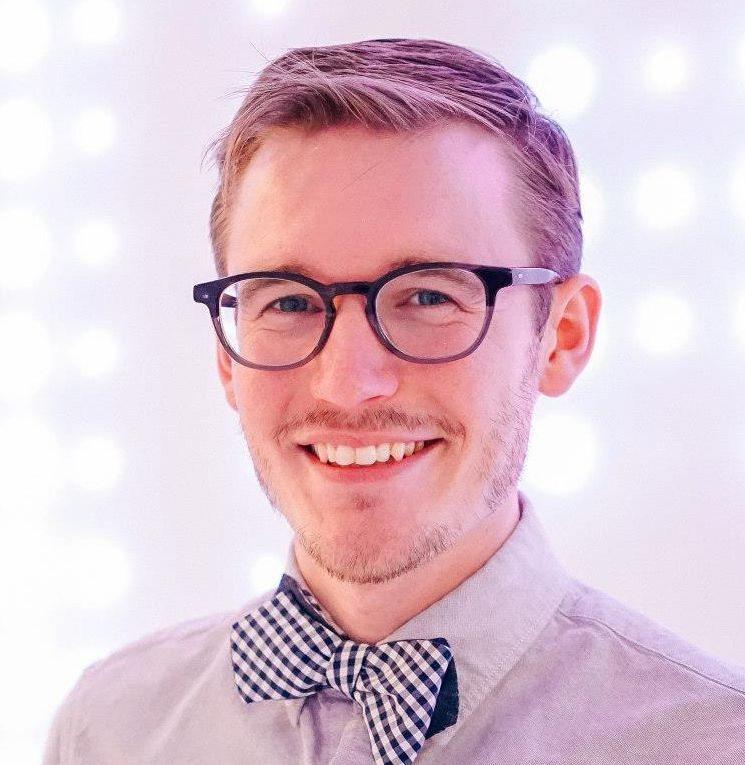
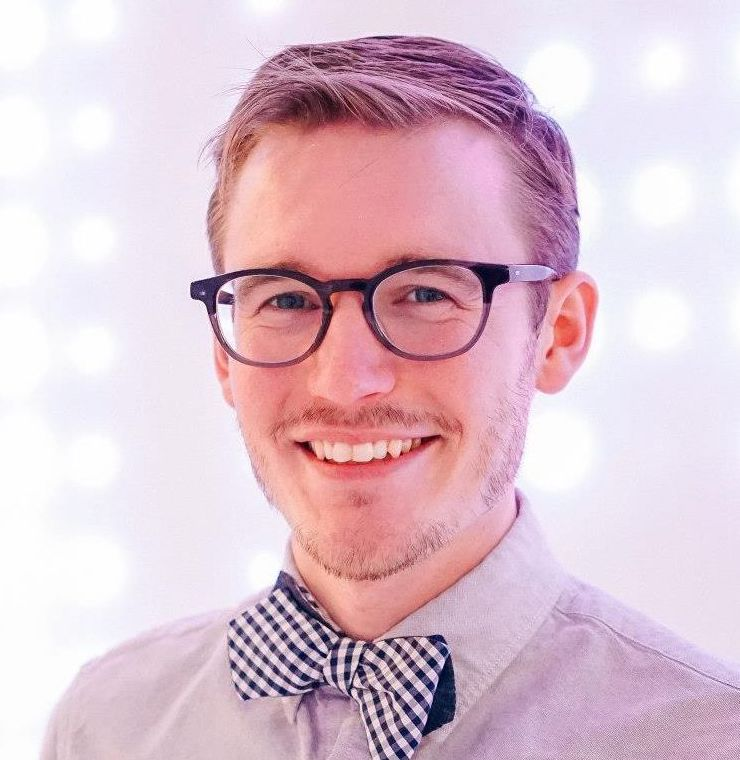
optimize images

diff --git a/components/Article.tsx b/components/Article.tsx
@@ -332,7 +332,17 @@ function AuthorInfo() {
       `}</style>
       <Link href="/">
         <a tabIndex={-1}>
-          <img alt="Headshot" {...headshot} />
+          <img
+            alt="Headshot"
+            {...headshot}
+            {...srcset(
+              require('../assets/me-96.jpg'),
+              require('../assets/me-144.jpg'),
+              require('../assets/me-224.jpg'),
+              headshot
+            )}
+            sizes="(max-width: 600px) 3rem, 7rem"
+          />
         </a>
       </Link>
       <h3>
@@ -346,6 +356,12 @@ function AuthorInfo() {
       </p>
     </div>
   )
+}
+
+function srcset(...sources: any[]): { srcSet: string } {
+  return {
+    srcSet: sources.map(source => `${source.src} ${source.width}w`).join()
+  }
 }
 
 function Heading({ children }: { children: string }) {
@@ -372,7 +388,8 @@ function Heading({ children }: { children: string }) {
       <style jsx>{`
         h1 {
           color: black;
-          font-family: 'Inter', -apple-system, "Segoe UI", Roboto, ui-system, sans-serif;
+          font-family: 'Inter', -apple-system, 'Segoe UI', Roboto, ui-system,
+            sans-serif;
           font-size: 3rem;
           font-style: italic;
           font-weight: 100;
